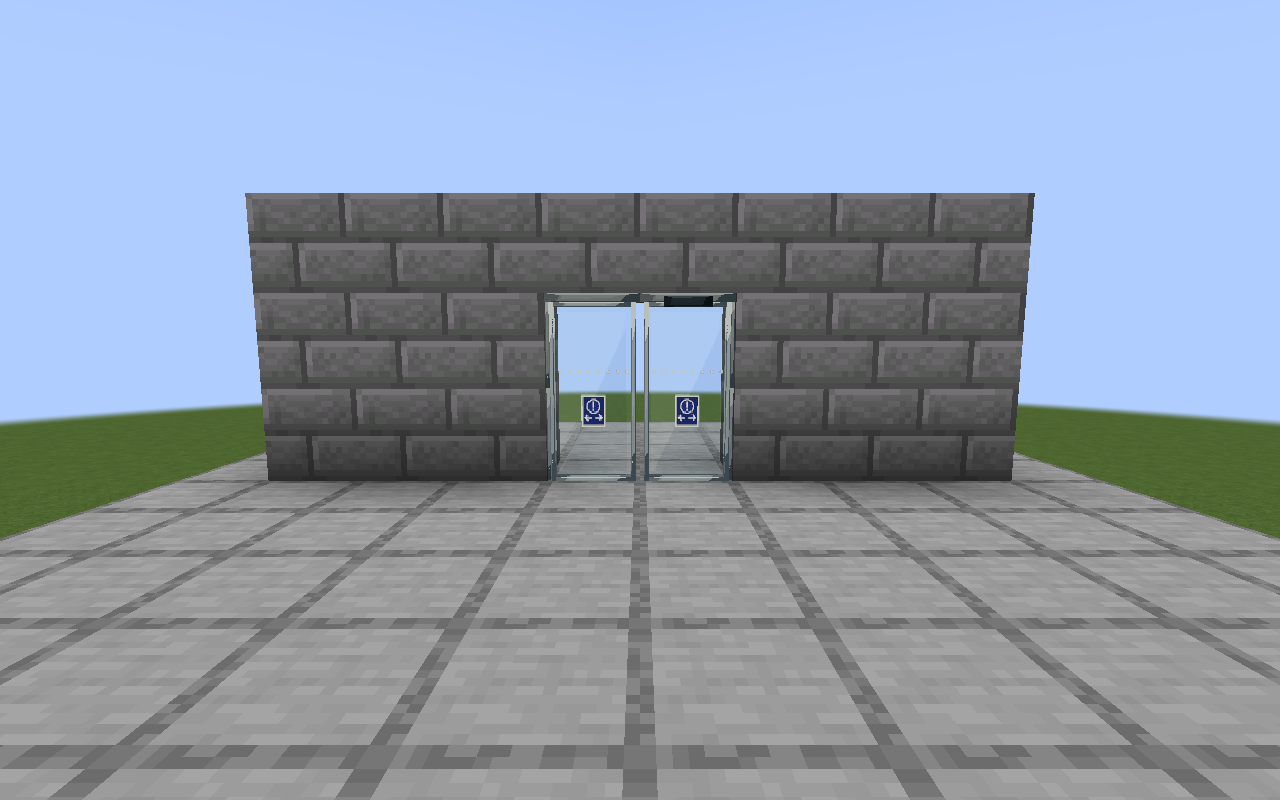
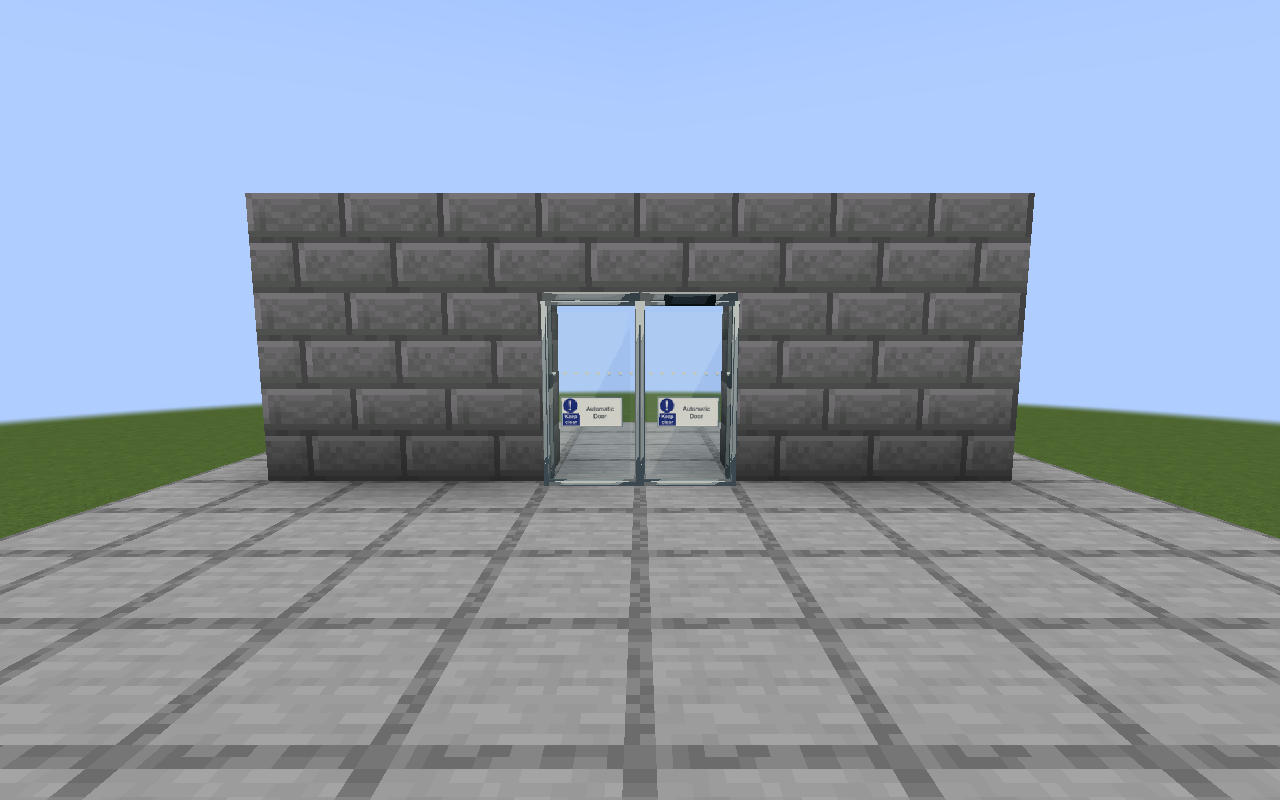
Release rc.6 automatic door fixes and updated player guides

Changed region(s): [[0.4062, 0.3438, 0.5938, 0.625]]

diff --git a/docs/Automatic-Doors.md b/docs/Automatic-Doors.md
@@ -1,6 +1,6 @@
 # Automatic sliding station doors
 
-Build glass station entrances with silver frames, white visibility dots and blue automatic-door notices. These are stationary building doors; train kits retain their own carriage doors.
+Build glass station entrances with silver frames, white visibility dots and white keep-clear / automatic-door stickers. These are stationary building doors; train kits retain their own carriage doors.
 
 ![Closed automatic station entrance](../assets/automatic-door-closed.png)
 
@@ -21,7 +21,7 @@ An attached sensor detects living players within three blocks on either side of 
 
 The entrance checks for approach every four game ticks. Opening and closing each take 12 ticks (0.6 seconds at 20 TPS). Doors remain open for 40 ticks (two seconds) after the last detected approach. Returning while they close reverses the movement smoothly.
 
-A separate safety check runs every tick across the opening. A living occupant holds or reopens the entrance, including an animal already passing through. This protection works without a sensor. Spectators and armour stands are ignored. Closed doors block walking; collision clears near the end of the opening movement, once the panels have moved aside.
+A separate safety check runs every tick across the opening. A living occupant holds or reopens the entrance, including an animal already passing through. This protection works without a sensor while the entrance is open or moving. Occupancy alone cannot activate a fully closed door: fit a sensor or supply redstone power. Spectators and armour stands are ignored. Closed doors block walking; collision clears near the end of the opening movement, once the panels have moved aside.
 
 Direct redstone power to either half of either leaf holds a paired entrance open. Removing power returns it to sensor, safety and closing-delay behaviour. A door without a sensor can be operated with redstone.
 

diff --git a/docs/Release-Notes.md b/docs/Release-Notes.md
@@ -1,8 +1,12 @@
-# Release notes: 1.0.0-rc.5
+# Release notes: 1.0.0-rc.6
 
 This is a **prerelease candidate** for Minecraft 1.21.1, NeoForge 21.1.251 and
 Create 6.0.10. Existing world data and block/item IDs are preserved.
 
+- Fix automatic-door issue #2: closed panels meet without a gap, standalone
+  panels fill the opening, and white Keep clear / Automatic Door stickers replace
+  the blue notices. A fully closed door now requires a sensor or redstone to open;
+  occupancy protection still holds or reverses an already open or moving door.
 - Add automatic sliding station doors with attachable proximity sensors, optional
   chimes and synchronized double-width entrances. Includes redstone operation,
   occupancy protection, separate sensor recovery and original UK-style glass-door
@@ -19,7 +23,7 @@ Create 6.0.10. Existing world data and block/item IDs are preserved.
   signs, tickets, crossings, gantries, track and road-building features documented
   in the player guide.
 
-This release passes 503 Java tests, 84 server GameTests and three door asset
+This release passes 504 Java tests, 84 server GameTests and all 52 Python
 checks. Native door rendering, paired operation and delayed closure were checked
 with six captured views. Existing track rendering fixes are retained. Two-client
 door synchronization, real chunk-unload boundaries, subjective chime quality and

diff --git a/README.md b/README.md
@@ -6,11 +6,11 @@ Build a British railway with Create: mainline signals, semaphores, shunts,
 automatic crossings, concrete sleeper track, Greater Anglia train kits, stations,
 passenger information, tickets, automatic station doors, road signs and trackside equipment.
 
-**Current download: 1.0.0-rc.5 (prerelease)**
+**Current download: 1.0.0-rc.6 (prerelease)**
 
 ## Download and install
 
-1. [Download ukrailways-1.0.0-rc.5.jar](https://github.com/Red463/UKRailways/releases/download/v1.0.0-rc.5/ukrailways-1.0.0-rc.5.jar).
+1. [Download ukrailways-1.0.0-rc.6.jar](https://github.com/Red463/UKRailways/releases/download/v1.0.0-rc.6/ukrailways-1.0.0-rc.6.jar).
 2. Use **Minecraft 1.21.1**, **Java 21**, **NeoForge 21.1.251** and **Create 6.0.10**
    with its normal dependencies. JEI is optional.
 3. Put the same UK Railways JAR in the server and every client's `mods` folder.
@@ -20,7 +20,7 @@ passenger information, tickets, automatic station doors, road signs and tracksid
 Use the **JAR under Releases → Assets**, not GitHub's automatic source archives.
 Current HD artwork is bundled; no separate resource pack is required.
 See [all releases](https://github.com/Red463/UKRailways/releases) and
-[rc.5 release notes](docs/Release-Notes.md).
+[rc.6 release notes](docs/Release-Notes.md).
 
 ## Player guide
 

diff --git a/docs/Shader-and-Preview-Troubleshooting.md b/docs/Shader-and-Preview-Troubleshooting.md
@@ -4,7 +4,7 @@
 
 Use Minecraft 1.21.1, Java 21, NeoForge 21.1.251 and Create 6.0.10. Install the
 same UK Railways JAR on the server and every client. Keep only one version in
-each mods folder. This is **1.0.0-rc.5**, a release candidate, not the final 1.0.
+each mods folder. This is **1.0.0-rc.6**, a release candidate, not the final 1.0.
 Back up worlds before updating. Full ATM10 multiplayer acceptance remains pending.
 
 ## Missing curved sleepers with shaders
@@ -19,7 +19,7 @@ other combinations and every schematic have not been verified.
 
 ## Frame drops when showing a schematic preview
 
-Update to rc.5. It includes the rc.3 fix that prevents schematic previews from repeatedly clearing the
+Update to rc.6. It includes the rc.3 fix that prevents schematic previews from repeatedly clearing the
 placed-track junction geometry cache. Previews use ordinary sleepers; placed
 junctions retain detailed overlap clipping. Large previews still cost rendering
 time. The regression replay verified cache reuse; it is not a full-pack FPS test.

diff --git a/docs/Installation.md b/docs/Installation.md
@@ -1,4 +1,4 @@
-# UK Railways 1.0.0-rc.5 installation
+# UK Railways 1.0.0-rc.6 installation
 
 ## Requirements
 
@@ -21,7 +21,7 @@ to force an incompatible version to load.
 1. Stop the server and close Minecraft clients.
 2. Back up the server world before first installing or updating this mod.
 3. Remove any older `ukrailways-*.jar` from the server's `mods` folder.
-4. Copy `ukrailways-1.0.0-rc.5.jar` into that folder.
+4. Copy `ukrailways-1.0.0-rc.6.jar` into that folder.
 5. Put that same JAR in each player's Minecraft instance `mods` folder, removing
    their previous UK Railways JAR too. Keep only one UK Railways version installed.
 6. Start the server and clients. Check the server log for UK Railways loading errors

diff --git a/docs/Home.md b/docs/Home.md
@@ -1,6 +1,6 @@
 # Create: UK Railways player guide
 
-Start with [Your first UK railway](Getting-Started.md). This guide covers **1.0.0-rc.5**, a release candidate for Minecraft 1.21.1, NeoForge and Create 6.0.10.
+Start with [Your first UK railway](Getting-Started.md). This guide covers **1.0.0-rc.6**, a release candidate for Minecraft 1.21.1, NeoForge and Create 6.0.10.
 
 Create retains train movement authority. Some station details are decorative; each feature guide explains its actual interactions. Use [Crafting](Crafting.md) for recipes and the [catalogue](Block-and-Item-Catalogue.md) to look up every shipped block/item ID.
 

diff --git a/docs/Getting-Started.md b/docs/Getting-Started.md
@@ -1,6 +1,6 @@
 # Your first UK railway
 
-This guide is for **1.0.0-rc.4**, a release candidate for Minecraft 1.21.1 and
+This guide is for **1.0.0-rc.6**, a release candidate for Minecraft 1.21.1 and
 NeoForge. Begin in a creative test world so you can learn the tools before building
 in survival. The mod adds to Create's train system; its stations, schedules and
 track signals still provide the underlying railway operation.

diff --git a/docs/_Footer.md b/docs/_Footer.md
@@ -1,1 +1,1 @@
-Create: UK Railways 1.0.0-rc.5 · [Downloads](https://github.com/Red463/UKRailways/releases) · [Report an issue](https://github.com/Red463/UKRailways/issues)
+Create: UK Railways 1.0.0-rc.6 · [Downloads](https://github.com/Red463/UKRailways/releases) · [Report an issue](https://github.com/Red463/UKRailways/issues)
